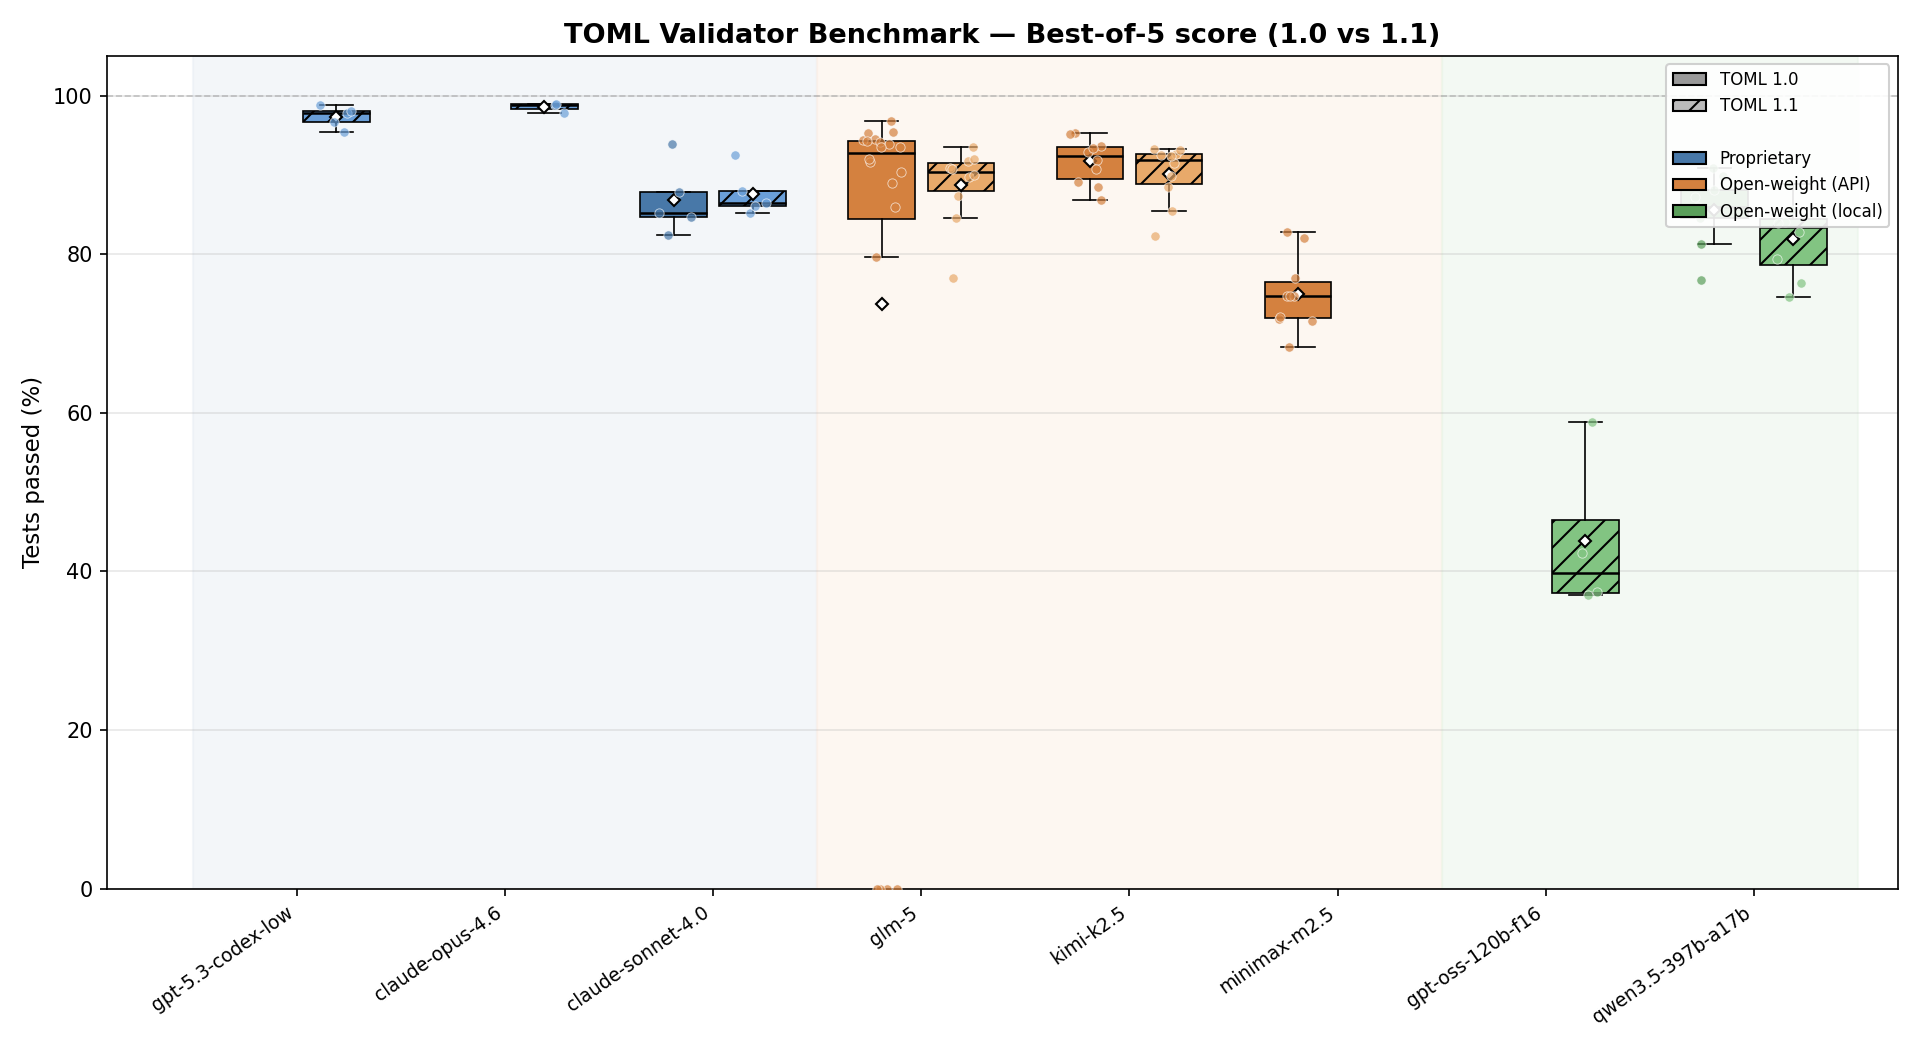
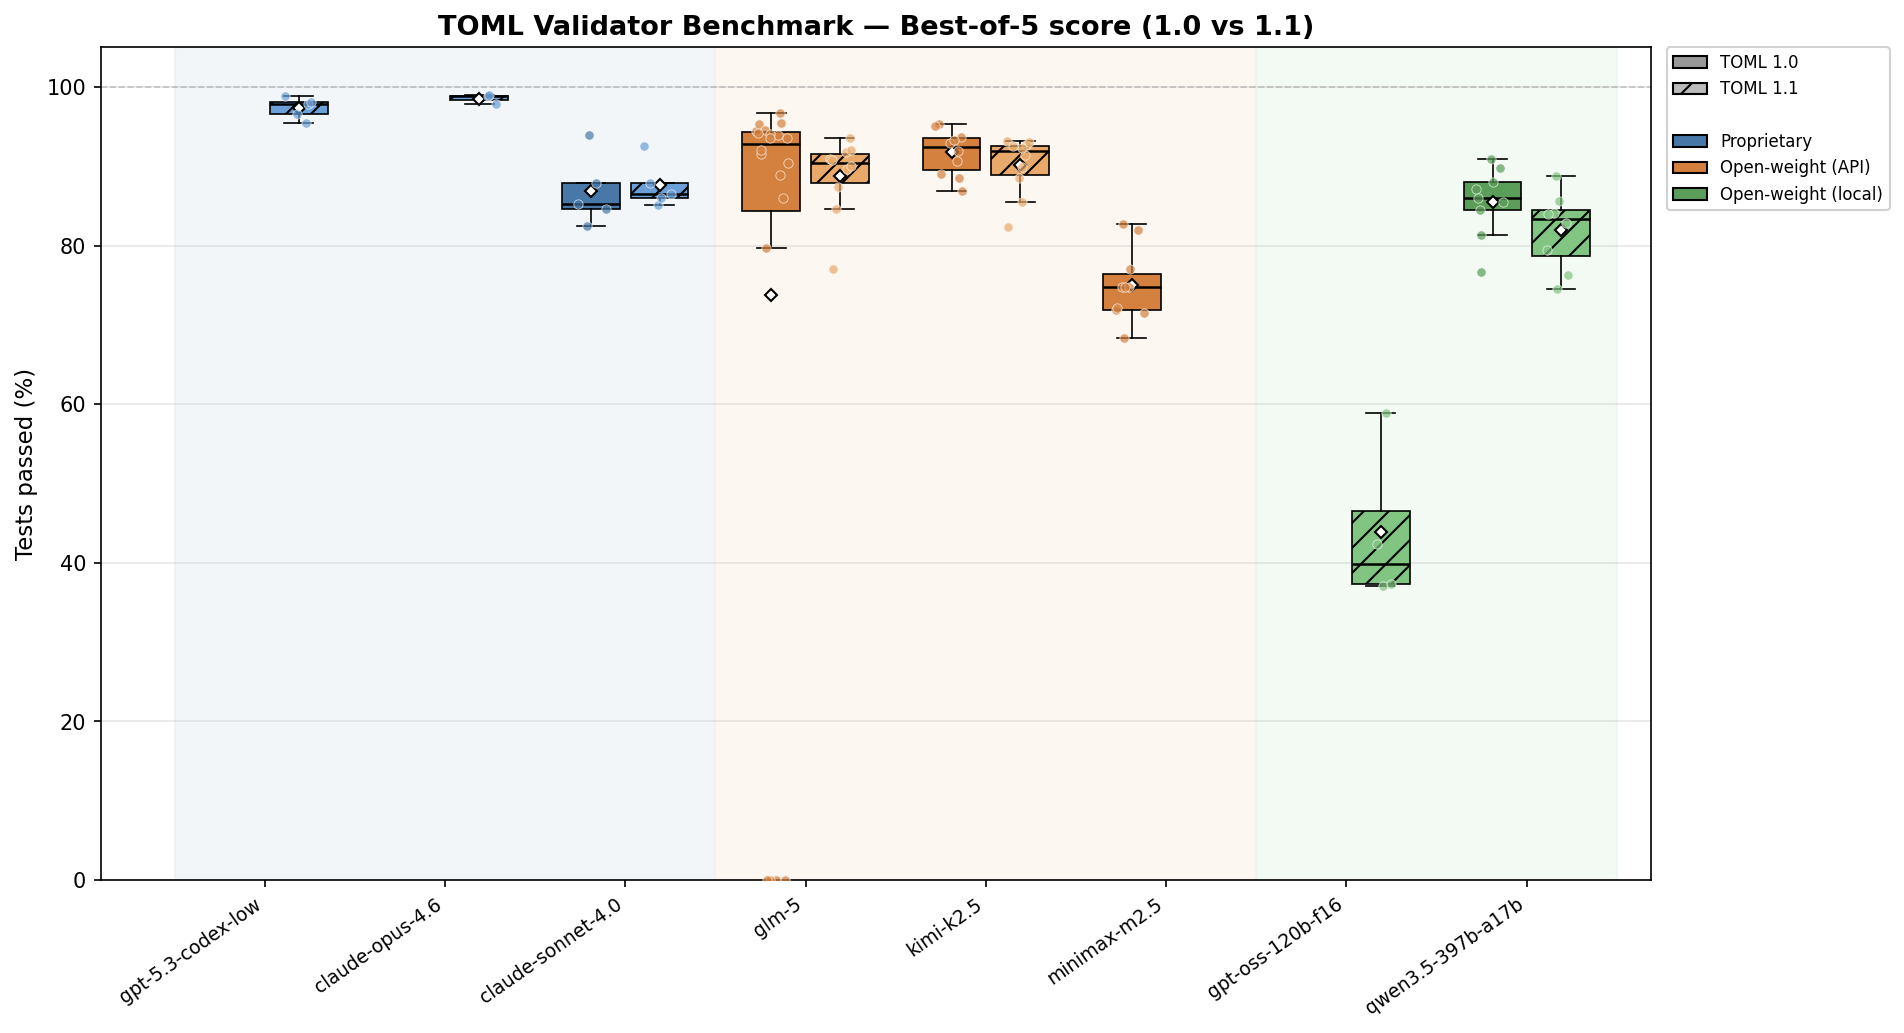
Move comparison chart legend outside plot area

diff --git a/plot_comparison.py b/plot_comparison.py
@@ -168,10 +168,11 @@ def main():
         color_10, _ = CATEGORY_COLORS[cat]
         legend_handles.append(mpatches.Patch(facecolor=color_10, edgecolor="black", label=label))
 
-    ax.legend(handles=legend_handles, loc="upper right", fontsize=8, framealpha=0.9)
+    ax.legend(handles=legend_handles, loc="upper left", bbox_to_anchor=(1.01, 1),
+              fontsize=8, framealpha=0.9, borderaxespad=0)
 
     fig.tight_layout()
-    fig.savefig(args.output, dpi=150)
+    fig.savefig(args.output, dpi=150, bbox_inches="tight")
     print(f"Saved to {args.output}")
 
 
